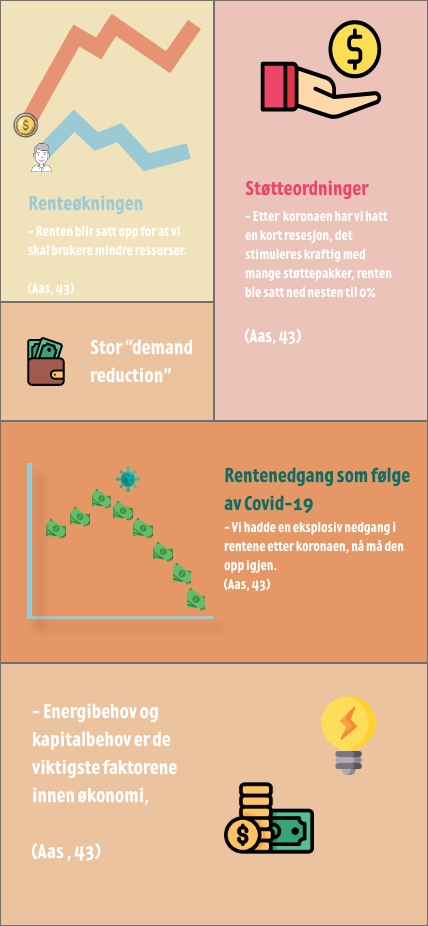
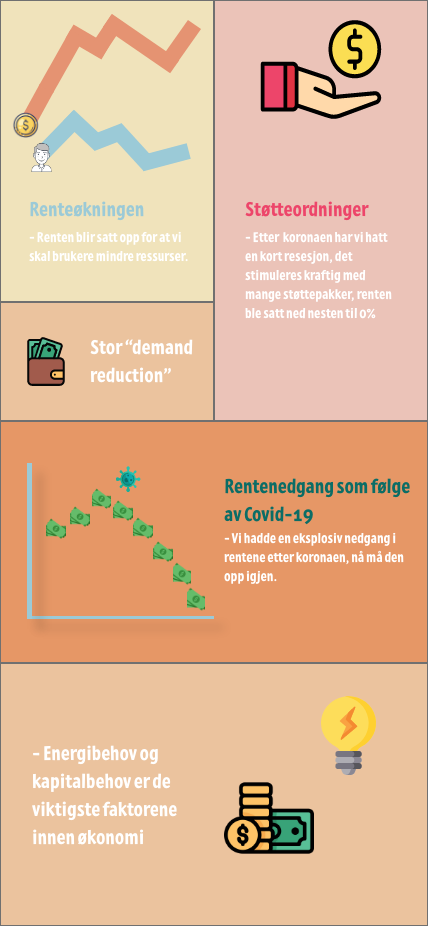
Artikkel ferdig
Byttet ut: overskrift, bilde og lorem ipsum

diff --git a/src/pages/Article2.js b/src/pages/Article2.js
@@ -8,8 +8,8 @@ import InfographMobile from "../images/infographMobile.png";
 export default function Article2() {
   return (
     <div className={"article2"}>
-      <h1 className={"articleTitle"}>Renteøkning</h1>
-      <span className={"articleUnderTitle"}>Lorem ipsum dolor sit amet</span>
+      <h1 className={"articleTitle"}>Kort forklart: Renteøkningen</h1>
+      <span className={"articleUnderTitle"}>Illustrasjoner av Sofie Karlsen og Ivo Eilertsen</span>
       <section className={"articleIntro"}>
         Folk flest ser kanskje på renteøkning som et rent negativt tema, hvor
         man da ender opp med å betale mer for lån, og dermed blir lommeboken

diff --git a/src/components/Layout.js b/src/components/Layout.js
@@ -17,7 +17,7 @@ export default function Layout() {
             <Link to="/sjokkbeskjed-for-torvbyens-ansatte">Sjokkbeskjed for Torvbyens ansatte</Link>
           </li>
           <li>
-            <Link to="/renteokning">Renteøkning</Link>
+            <Link to="/renteokning">Kort forklart: Renteøkningen</Link>
           </li>
           <li>
             <Link to="/article3">Article 3</Link>
